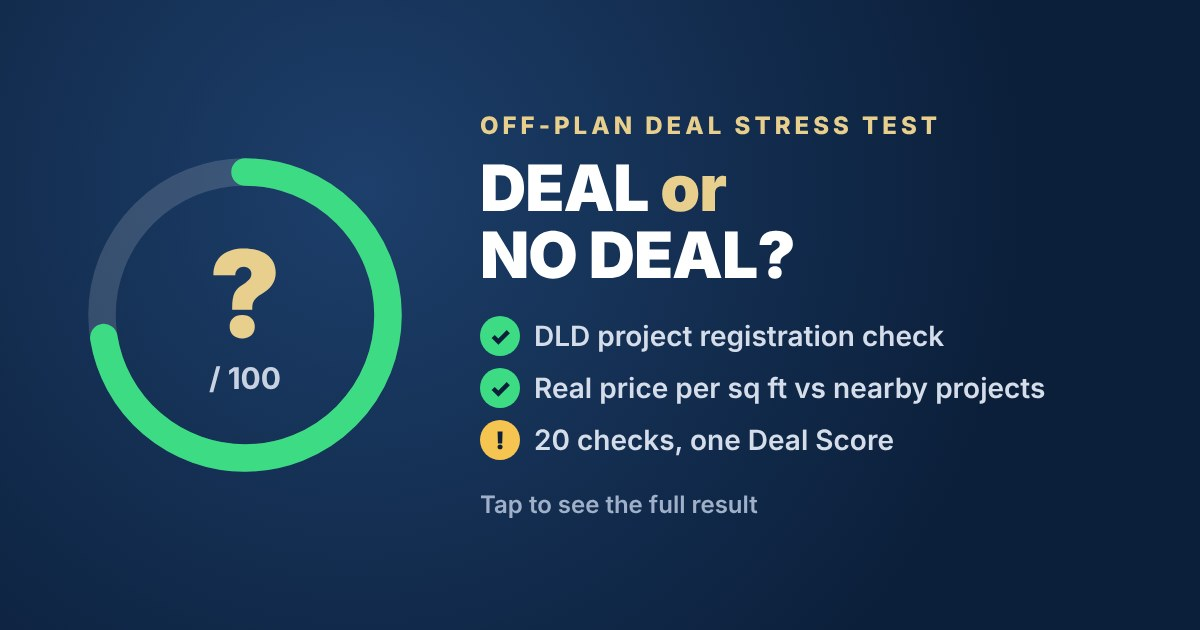
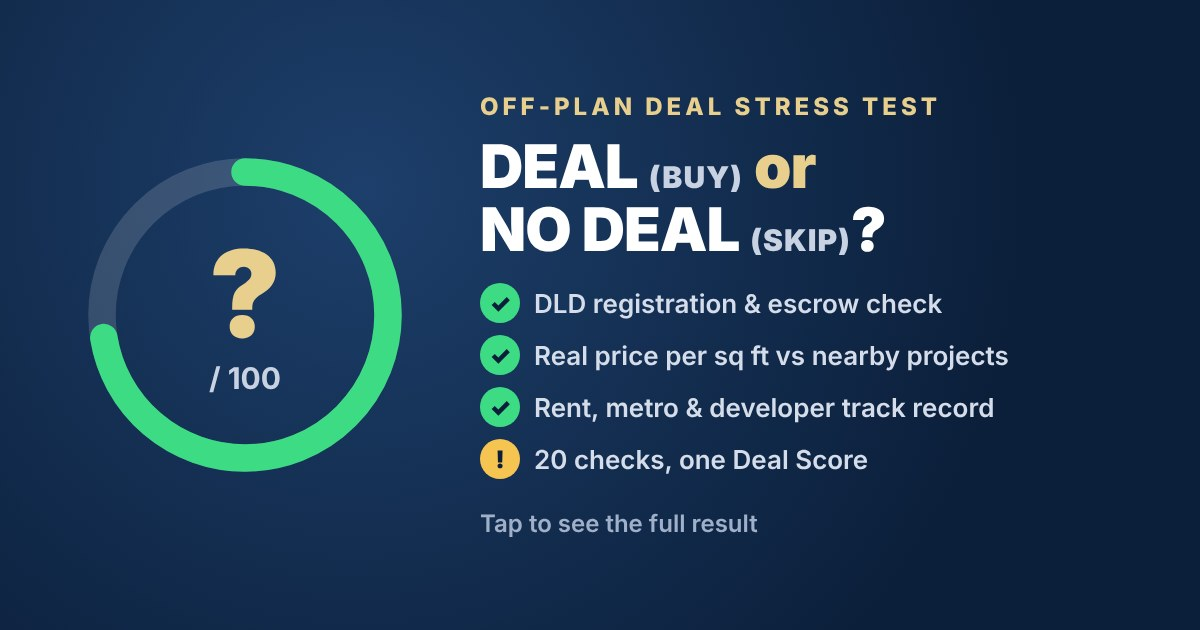
Stress Test: Deal (Buy) or No Deal (Skip), 20 checks, updated hero, chips, share card and wording
Claude-Session: https://claude.ai/code/session_01F4UGRCAVPXnpajMDVhwJED

Changed region(s): [[0.4008, 0.1508, 0.8942, 0.8444]]

diff --git a/checklist/index.html b/checklist/index.html
@@ -4,10 +4,10 @@
 <meta charset="UTF-8">
 <meta name="viewport" content="width=device-width, initial-scale=1">
 <title>Off-Plan Deal Stress Test | Sam Surya</title>
-<meta name="description" content="10 checks to make before you buy off-plan property in Dubai. Free guide by Sam Surya, Principal Property Advisor.">
-<meta property="og:title" content="Off-Plan Deal Stress Test: Deal or No Deal?">
+<meta name="description" content="20 checks plus real DLD market data before you buy off-plan in Dubai: registration, escrow, price per sq ft, rent, developer track record and metro. Free Off-Plan Deal Stress Test by Sam Surya.">
+<meta property="og:title" content="Off-Plan Deal Stress Test: Deal (Buy) or No Deal (Skip)?">
 <meta property="og:description" content="20 checks plus a real DLD price per sq ft comparison. Tap to see the full result.">
-<meta property="og:image" content="https://changeitsam.github.io/contents-for-real-estate/checklist/result-card.jpg?v=2">
+<meta property="og:image" content="https://changeitsam.github.io/contents-for-real-estate/checklist/result-card.jpg?v=3">
 <meta property="og:image:width" content="1200">
 <meta property="og:image:height" content="630">
 <meta name="twitter:card" content="summary_large_image">
@@ -257,6 +257,8 @@ section,.game{scroll-margin-top:110px}
 .nxl .ar{display:inline-block;font-size:18px;animation:nxb .9s ease-in-out infinite}
 @keyframes nxb{0%,100%{transform:translateY(-2px)}50%{transform:translateY(4px)}}
 .nxl .nxs{background:rgba(255,255,255,.2);border:0;color:#fff;font:inherit;font-size:13.5px;font-weight:700;border-radius:14px;padding:3px 10px;cursor:pointer}
+.dd .nw{white-space:nowrap;font-weight:inherit}
+.dd small{font-size:.55em;letter-spacing:1px;opacity:.85;font-weight:800}
 </style>
 <script>
 // Access gate: the test opens from the Instagram DM link (it carries ?k=...). A plain copied link goes to Instagram first.
@@ -276,6 +278,7 @@ section,.game{scroll-margin-top:110px}
 .lockgate ol{text-align:left;margin:16px auto 0;padding-left:22px;font-size:17px;color:#fff;line-height:1.5}.lockgate li{margin-top:6px}.lockgate li b{color:#E8CF8E}
 .lockgate a.igb{display:flex;align-items:center;justify-content:center;gap:10px;margin-top:20px;padding:15px;border-radius:40px;font-weight:800;font-size:19px;color:#fff;text-decoration:none;background:linear-gradient(90deg,#f58529,#dd2a7b,#8134af)}
 .lockgate small{display:block;color:#9FB0C8;font-size:14px;margin-top:14px}
+.dd small{font-size:.55em;letter-spacing:1px;opacity:.85;font-weight:800}
 </style>
 </head>
 <body>
@@ -299,10 +302,10 @@ section,.game{scroll-margin-top:110px}
 
 <header class="hero">
  <div class="in">
-  <div class="top"><div class="brand">Sam Surya · Dubai Off-Plan</div><div class="pill">FREE INVESTOR GUIDE · 2026</div></div>
-  <h1>Dubai Off-Plan<br><span>Investor Checklist</span></h1>
-  <p class="sub">✅ 10 checks to make before you put a single dirham into an off-plan property in Dubai.</p>
-  <div class="chips"><div class="chip">🏗 Developer &amp; project</div><div class="chip">🏦 Escrow protection</div><div class="chip">💰 True costs</div><div class="chip">📄 Contract &amp; Oqood</div><div class="chip">🚪 Exit plan</div></div>
+  <div class="top"><div class="brand">Sam Surya · Dubai Off-Plan</div><div class="pill">FREE OFF-PLAN STRESS TEST · 2026</div></div>
+  <h1>Dubai Off-Plan<br><span>Deal Stress Test</span></h1>
+  <p class="sub">✅ 20 checks plus real DLD market data, before you put a single dirham into an off-plan property in Dubai.</p>
+  <div class="chips"><div class="chip">🏗 Developer &amp; project</div><div class="chip">🏦 Escrow protection</div><div class="chip">💲 Price vs market</div><div class="chip">🔑 Rent check</div><div class="chip">📄 Contract &amp; Oqood</div><div class="chip">🚇 Metro &amp; Blue Line</div><div class="chip">🚪 Exit &amp; break-even</div></div>
  </div>
  <svg class="sky" viewBox="0 0 800 260" preserveAspectRatio="none" aria-hidden="true">
   <defs><linearGradient id="gg" x1="0" y1="0" x2="0" y2="1"><stop offset="0" stop-color="#C9A24A" stop-opacity=".55"/><stop offset="1" stop-color="#C9A24A" stop-opacity=".15"/></linearGradient></defs>
@@ -319,14 +322,15 @@ section,.game{scroll-margin-top:110px}
 <div class="prog" id="prog"><div class="pin"><div class="r1"><span class="cnt">✅ <span id="done">0</span>/<span id="tot">20</span><small>checks</small></span><button type="button" class="hres" id="hreset">↺ Reset</button><a href="#test" class="go">Get result</a></div><div class="bar"><i id="bar"></i></div><div class="r3"><span id="where">📍 Start: pick your project</span><span class="warnp" id="psfwarn" hidden>💲 Price check missing</span></div></div></div>
 
 <section class="game">
- <div class="dd">🎲 DEAL <span>or</span> NO DEAL?</div>
+ <div class="dd">🎲 <b class="nw">DEAL <small>(BUY)</small></b> <span>or</span> <b class="nw">NO DEAL <small>(SKIP)</small>?</b></div>
  <h2>Take the 2-minute Off-Plan Deal Stress Test</h2>
- <p>Thinking about an off-plan project? Tick only what you have <b>actually confirmed</b>. Then tap <b>Get my result</b> to find out: deal, or no deal?</p>
+ <p>Thinking about an off-plan project? Tick only what you have <b>actually confirmed</b>. Then tap <b>Get my result</b> to find out: <b>deal (buy)</b>, or <b>no deal (skip)</b>?</p>
  <div class="why">
   <h3>🔍 Real market data, checked for you. Free.</h3>
   <div class="wi"><span class="e">🏛</span><span><b>Project registration, checked for you.</b> Type your project and we pull its Dubai Land Department record: project number, developer, construction progress, completion date and escrow bank. No searching project by project.</span></div>
   <div class="wi"><span class="e">💲</span><span><b>The real price per sq ft, not the advertised one.</b> We compare your price with what buyers <b>actually paid</b> in similar off-plan projects nearby (median price per sq ft from registered sales), plus the area median. Developer sites and portals only show asking prices.</span></div>
-  <div class="wi"><span class="e">🎯</span><span><b>One clear answer.</b> 20 checks, one Deal Score out of 100: deal, or no deal?</span></div>
+  <div class="wi"><span class="e">📋</span><span><b>Plus a detailed report from Sam:</b> the developer's DLD track record, sales in your exact project, your promised rent vs real Ejari contracts, nearest metro and Blue Line station, and your payment plan, exit and resale break-even.</span></div>
+  <div class="wi"><span class="e">🎯</span><span><b>One clear answer.</b> 20 checks, one Deal Score out of 100: <b>deal (buy)</b> or <b>no deal (skip)</b>?</span></div>
   <div class="stats3"><span><b id="st1">770</b>DLD-registered projects</span><span><b id="st2">500+</b>off-plan projects with real sale prices</span><span><b>Weekly</b>market data updates · through <b id="st3">Oct 2026</b></span></div>
   <div class="vs">What would take hours across developer websites, property portals and Dubai REST takes about 2 minutes here.</div>
  </div>
@@ -378,7 +382,7 @@ section,.game{scroll-margin-top:110px}
 <section class="sec">
  <div class="kicker">Check 10</div><h2>🧭 Plan your way out</h2><p class="lead">Know your exit before you commit.</p>
  <div class="card"><div class="num"><span class="ic">🚪</span><span class="n">10</span></div><div class="body"><h3>Your exit plan makes sense</h3><p>🏠 <b>Live</b> · 🔑 <b>Rent</b>: compare rents for similar ready units · 💸 <b>Sell</b>: check real resale prices on DLD data.</p><div class="tip">🌟 <b>Golden Visa:</b> property worth AED 2M+ can qualify for the 10-year UAE Golden Visa, off-plan included. Confirm current DLD conditions for your case.</div><div class="ticks"><label class="tick"><input type="checkbox" data-w="6"><span>Exit plan chosen and numbers checked</span></label></div></div></div>
- <div class="card rule"><div class="num"><span class="ic">🔐</span><span class="n">RULE</span></div><div class="body"><h3>The golden rule</h3><p>No Dubai REST listing, no escrow account, no Oqood? <b style="color:#E8CF8E">No deal.</b> A good project passes all 10 checks easily.</p></div></div>
+ <div class="card rule"><div class="num"><span class="ic">🔐</span><span class="n">RULE</span></div><div class="body"><h3>The golden rule</h3><p>No Dubai REST listing, no escrow account, no Oqood? <b style="color:#E8CF8E">No deal (skip).</b> A good project passes all 20 checks easily.</p></div></div>
 </section>
 
 <section class="sec" id="psfsec">
@@ -440,8 +444,8 @@ section,.game{scroll-margin-top:110px}
 
 <section class="sec" id="test">
  <div class="submit">
-  <div class="dd">🎲 DEAL <span>or</span> NO DEAL?</div>
-  <p>Ticked everything you've confirmed? Let's see your Deal Score.</p>
+  <div class="dd">🎲 <b class="nw">DEAL <small>(BUY)</small></b> <span>or</span> <b class="nw">NO DEAL <small>(SKIP)</small>?</b></div>
+  <p>Ticked everything you've confirmed? Let's see your Deal Score: buy, or skip?</p>
   <button type="button" class="btn go2" id="submit">🎯 Get my result</button>
   <button type="button" class="reset" id="reset">↺ Start again</button>
  </div>
@@ -450,7 +454,7 @@ section,.game{scroll-margin-top:110px}
 <footer class="cta">
  <div class="in">
   <div class="kicker">Your next step</div>
-  <h2>Want projects that already<br><span>pass all 10 checks? 🎯</span></h2>
+  <h2>Want projects that already<br><span>pass all 20 checks? 🎯</span></h2>
   <p>I work with Dubai's leading developers on <b style="color:#fff">off-plan projects only</b>. Tell me your budget and the area you like, and I'll send you a shortlist with full payment plans, free.</p>
   <div class="contact">
    <b class="nm">Sam Surya</b>
@@ -497,7 +501,7 @@ section,.game{scroll-margin-top:110px}
  <canvas id="conf"></canvas>
  <div class="rin">
   <button type="button" class="x2" id="rclose" aria-label="Close">×</button>
-  <div id="suspense" class="suspense"><div class="dice">🎲</div><div class="dd big">DEAL <span>or</span> NO DEAL?</div><p id="sline">Weighing your answers…</p></div>
+  <div id="suspense" class="suspense"><div class="dice">🎲</div><div class="dd big"><b class="nw">DEAL <small>(BUY)</small></b> <span>or</span> <b class="nw">NO DEAL <small>(SKIP)</small>?</b></div><p id="sline">Weighing your answers…</p></div>
   <div id="final" hidden>
    <div class="rproj" id="rproj"></div>
    <div class="ring"><svg viewBox="0 0 120 120"><circle cx="60" cy="60" r="52" class="trk"/><circle cx="60" cy="60" r="52" class="val" id="arc"/></svg><div class="score"><b id="pct">0</b><span>/ 100</span></div></div>
@@ -555,10 +559,10 @@ section,.game{scroll-margin-top:110px}
   // points badges
   
   var TIERS=[
-    {min:95,v:"DEAL ✅",c:"#3DDC84",t:"Congratulations! This project passes the key checks and is worth considering for your next step. Not a blind yes: take it forward to a site visit and the final paperwork, with someone checking the details with you."},
+    {min:95,v:"DEAL (BUY) ✅",c:"#3DDC84",t:"Congratulations! This project passes the key checks and is worth considering for your next step. Not a blind yes: take it forward to a site visit and the final paperwork, with someone checking the details with you."},
     {min:80,v:"DEAL WITH CAUTION ⚠",c:"#F5C451",t:"Most of the important boxes are ticked. Close the gaps below before you pay anything, then go ahead with care."},
     {min:70,v:"CONSULT A BROKER 🧐",c:"#F59E51",t:"Proceed with caution. There are real gaps here. Talk to a licensed broker and get the missing answers before you commit."},
-    {min:0,v:"NO DEAL ❌",c:"#FF6B6B",t:"Too many key checks are missing. Walk away for now and look at other projects, or get these answers first."}];
+    {min:0,v:"NO DEAL (SKIP) ❌",c:"#FF6B6B",t:"Too many key checks are missing. Walk away for now and look at other projects, or get these answers first."}];
   var res=document.getElementById("res"), lastScore=0, lastTier=null;
   function ticks(){ return boxes.reduce(function(s,b){return s+(b.checked?+b.dataset.w:0);},0); }
   function score(){ return Math.round(ticks()*(100-PSF_MAX)/100+(PSFR?PSFR.pts:0)); }
@@ -572,7 +576,7 @@ section,.game{scroll-margin-top:110px}
     var proj=document.getElementById("proj").value.trim();
     res.hidden=false; document.body.style.overflow="hidden"; res.scrollTop=0;
     document.getElementById("suspense").hidden=false; document.getElementById("final").hidden=true;
-    var lines=["Weighing your answers…","Checking escrow & registration…","Deal… or no deal?"], k=0, sl=document.getElementById("sline");
+    var lines=["Weighing your answers…","Checking escrow & registration…","Buy… or skip?"], k=0, sl=document.getElementById("sline");
     sl.textContent=lines[0];
     var iv=setInterval(function(){k++; if(k<lines.length) sl.textContent=lines[k];},800);
     setTimeout(function(){
@@ -591,7 +595,7 @@ section,.game{scroll-margin-top:110px}
         var pend=document.getElementById("pend"), cw=document.getElementById("cwait");
         if(FROMLINK){ g.className="rep"; g.innerHTML=report(sc); pend.hidden=true; cw.innerHTML="💬 <b>Questions about your report?</b> Let's talk it through."; }
         else { g.className="gaps"; g.innerHTML=""; pend.hidden=false; cw.innerHTML="<b>Can't wait?</b> Talk to Sam now."; }
-        var m="My Dubai Off-Plan Deal Stress Test result"+(proj?(" for "+proj):"")+": "+sc+"/100, "+tier.v.replace(/[^A-Za-z ]/g,"").trim()+"."+(PSFR?("\nPrice: AED "+PSFV.toLocaleString("en-US")+"/sq ft vs average AED "+PSFR.avg.toLocaleString("en-US")+" ("+PSFR.diffTxt+", "+PSFR.basis+")."):"")+"\n\nHi Sam, I'm "+(who.n||"")+(who.p?(" (WhatsApp: "+who.p+")"):"")+". Can you go through my result with me? I'd also like to discuss my off-plan purchase options.";
+        var m="My Dubai Off-Plan Deal Stress Test result"+(proj?(" for "+proj):"")+": "+sc+"/100, "+tier.v.replace(/[^A-Za-z ()]/g,"").trim()+"."+(PSFR?("\nPrice: AED "+PSFV.toLocaleString("en-US")+"/sq ft vs average AED "+PSFR.avg.toLocaleString("en-US")+" ("+PSFR.diffTxt+", "+PSFR.basis+")."):"")+"\n\nHi Sam, I'm "+(who.n||"")+(who.p?(" (WhatsApp: "+who.p+")"):"")+". Can you go through my result with me? I'd also like to discuss my off-plan purchase options.";
         document.getElementById("share").href="https://wa.me/971528728248?text="+encodeURIComponent(m);
         if(sc>=95) confetti();
       }
@@ -601,7 +605,7 @@ section,.game{scroll-margin-top:110px}
     if(!LEADS_URL || FROMLINK || !who.p) return;
     var proj=document.getElementById("proj").value.trim(), sig=[who.p,proj,sc].join("|");
     if(sig===sentFor) return; sentFor=sig;
-    var d={name:who.n||"",phone:who.p,project:proj,score:sc,verdict:tier.v.replace(/[^A-Za-z ]/g,"").trim(),
+    var d={name:who.n||"",phone:who.p,project:proj,score:sc,verdict:tier.v.replace(/[^A-Za-z ()]/g,"").trim(),
            psf:PSFV||"",avg:PSFR?PSFR.avg:"",rating:(document.getElementById("psfpts").hidden?"":document.getElementById("psfpts").textContent),link:resultLink(sc)};
     try{ fetch(LEADS_URL,{method:"POST",mode:"no-cors",body:new URLSearchParams(d)}).catch(function(){}); }catch(e){}
   }

diff --git a/projects/index.html b/projects/index.html
@@ -114,7 +114,7 @@ ul.hl li:before{content:"✦";position:absolute;left:4px;top:11px;color:var(--go
       (p.gallery&&p.gallery.length?'<h2>Gallery</h2><div class="gal">'+p.gallery.map(function(g){return '<img src="'+esc(g)+'" alt="" loading="lazy">';}).join("")+'</div>':'')+
       (p.regulator_note?'<div class="note">🏛 '+esc(p.regulator_note)+'</div>':'')+
       '<p class="disc">'+esc(p.disclaimer)+'</p></section>'+
-      '<section><h2>Not sure this is the one?</h2><a class="alt" href="../checklist/?k=hlHVyCSq">🎲 Take the Deal or No Deal test<small>10 checks before you buy any off-plan project</small></a></section>'+
+      '<section><h2>Not sure this is the one?</h2><a class="alt" href="../checklist/?k=hlHVyCSq">🎲 Take the Off-Plan Deal Stress Test<small>10 checks before you buy any off-plan project</small></a></section>'+
       (rest.length?'<section><h2>More projects</h2><div class="more">'+rest.map(function(x){return '<a class="mini" href="#'+esc(x.slug)+'" onclick="setTimeout(function(){location.reload()},10)"><img src="'+esc(x.hero)+'" alt=""><div><b>'+esc(x.name)+'</b><span>'+esc(x.developer)+' · '+esc(x.location)+' · from '+esc(x.price_from)+'</span></div></a>';}).join("")+'</div></section>':'');
     document.getElementById("main").innerHTML=h;
     Array.prototype.forEach.call(document.querySelectorAll(".opt"),function(b){ b.addEventListener("click",function(){ b.classList.toggle("on"); }); });
